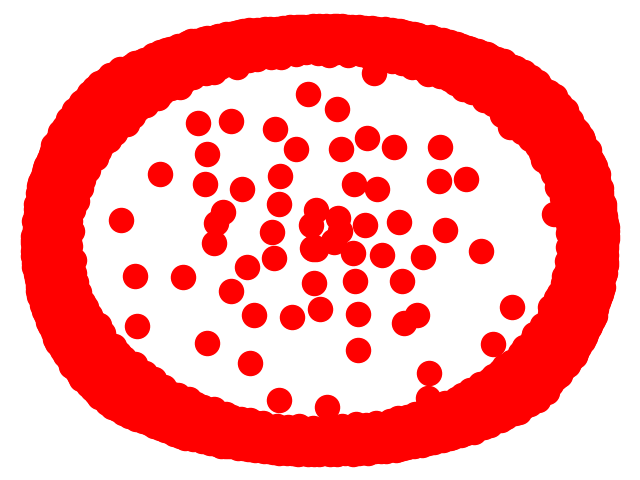
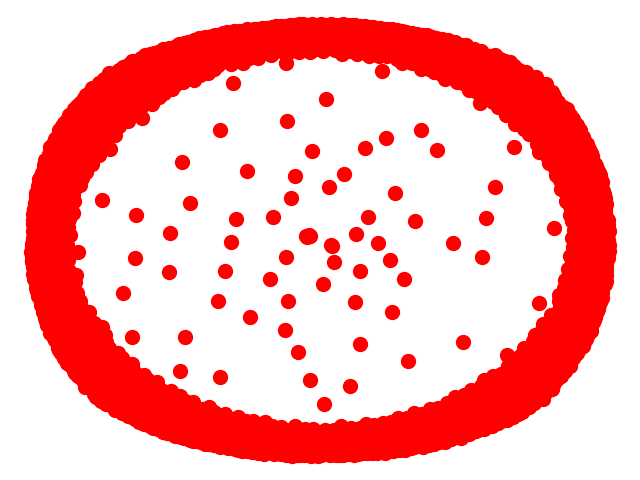
basic Graph class structure

diff --git a/test.py b/test.py
@@ -3,6 +3,13 @@ from graph import Graph
 
 graph = Graph(fname="ca-GrQc.txt",
               fpath="",
-              algorithm="")
+              algorithm="",
+              k=2)
 
 graph.draw_map()
+
+graph.partition_graph()
+
+graph.draw_partition_map()
+
+graph.write_output()
